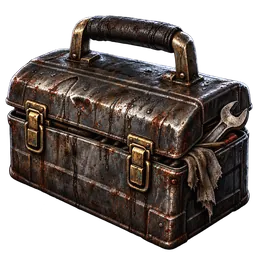
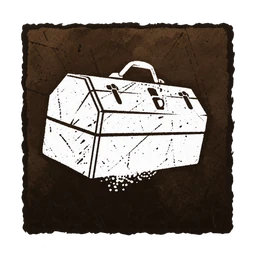
dbd: redraw item symbols card backs dice and markers

diff --git a/scripts/verify-dbd-art-sizes.py b/scripts/verify-dbd-art-sizes.py
@@ -91,7 +91,8 @@ print(f"DBD_ART_SIZES_PASS hall=2 sizes=1200x900,1600x900 WebP total={hall_total
 
 tokens = (
     "generator", "hook", "crow", "pallet", "locker", "chest",
-    "hex_totem", "exit_gate", "wall", "madness",
+    "hex_totem", "exit_gate", "wall", "madness", "bear_trap", "phantasm",
+    "entity", "brand_lantern", "bloodpoint", "generator_progress",
 )
 token_total = 0
 for name in tokens:
@@ -103,4 +104,42 @@ for name in tokens:
         assert image.mode == "RGBA" and image.getchannel("A").getextrema()[0] == 0
     assert asset.stat().st_size < 300_000, f"over 300 KB: {asset}"
     token_total += asset.stat().st_size
-print(f"DBD_ART_SIZES_PASS tokens=10 size=256x256 transparent WebP total={token_total}B over_300KB=0 comparisons=10")
+print(f"DBD_ART_SIZES_PASS tokens=16 size=256x256 transparent WebP total={token_total}B over_300KB=0 comparisons=16")
+
+items = (
+    "flashlight", "toolbox", "first_aid_kit", "commodious_toolbox", "map",
+    "rainbow_map", "dull_key", "skeleton_key", "broken_key", "firecracker",
+)
+item_dir = ROOT / "apps/web/public/assets/items"
+item_total = 0
+for name in items:
+    asset = item_dir / f"{name}.webp"
+    evidence = EVIDENCE / f"{name}-item-compare.png"
+    assert asset.is_file() and evidence.is_file(), f"missing item: {name}"
+    with Image.open(asset) as image:
+        assert image.format == "WEBP" and image.size == (256, 256), f"wrong item: {asset}"
+        assert image.mode == "RGBA" and image.getchannel("A").getextrema()[0] == 0
+    assert asset.stat().st_size < 300_000, f"over 300 KB: {asset}"
+    item_total += asset.stat().st_size
+print(f"DBD_ART_SIZES_PASS items=10 size=256x256 transparent WebP total={item_total}B over_300KB=0 comparisons=10")
+
+card_dir = ROOT / "apps/web/public/assets/cards"
+for name in ("movement", "killer", "item", "survivor"):
+    asset = card_dir / f"{name}_back.webp"
+    evidence = EVIDENCE / f"{name}-card-back-compare.png"
+    assert asset.is_file() and evidence.is_file(), f"missing card back: {name}"
+    with Image.open(asset) as image:
+        assert image.format == "WEBP" and image.size == (256, 337), f"wrong card back: {asset}"
+    assert asset.stat().st_size < 300_000
+print("DBD_ART_SIZES_PASS card_backs=4 size=256x337 WebP over_300KB=0 comparisons=4")
+
+dice_dir = ROOT / "apps/web/public/assets/dice"
+for kind in ("skill", "danger"):
+    for index in range(1, 7):
+        asset = dice_dir / f"{kind}_{index}.webp"
+        evidence = EVIDENCE / f"{kind}-{index}-die-compare.png"
+        assert asset.is_file() and evidence.is_file(), f"missing die face: {kind}_{index}"
+        with Image.open(asset) as image:
+            assert image.format == "WEBP" and image.size == (128, 128), f"wrong die face: {asset}"
+        assert asset.stat().st_size < 300_000
+print("DBD_ART_SIZES_PASS dice_faces=12 size=128x128 WebP over_300KB=0 comparisons=12")

diff --git a/docs/dbd/2026-11-23-art-and-maps/ART_MANIFEST.md b/docs/dbd/2026-11-23-art-and-maps/ART_MANIFEST.md
@@ -113,3 +113,51 @@
 | exit_gate | [图](../../../apps/web/public/assets/mobile/exit_gate.webp) | 14288 | [原图](https://drive.google.com/file/d/1Og_ZptTQ7gZr9KvvYCrLJn_cb8F8q3x3/view?usp=drivesdk) | [并排图](comparisons/exit_gate-token-compare.png) |
 | wall | [图](../../../apps/web/public/assets/mobile/wall.webp) | 16694 | [原图](https://drive.google.com/file/d/1tlWvyi4z82Wb0CNL9hh0FqGvmwXEGtIN/view?usp=drivesdk) | [并排图](comparisons/wall-token-compare.png) |
 | madness | [图](../../../apps/web/public/assets/mobile/madness.webp) | 18330 | [原图](https://drive.google.com/file/d/18jGWf9wRDL6kvGvMxIFIMqtzb7wJh5JK/view?usp=drivesdk) | [并排图](comparisons/madness-token-compare.png) |
+| bear_trap | [图](../../../apps/web/public/assets/mobile/bear_trap.webp) | 22004 | [原图](https://drive.google.com/file/d/1vRTijX58M27ZmYk1vw5nelCGBHUo3CGe/view?usp=drivesdk) | [并排图](comparisons/bear_trap-token-compare.png) |
+| phantasm | [图](../../../apps/web/public/assets/mobile/phantasm.webp) | 23212 | [原图](https://drive.google.com/file/d/1RAO7eqQqjC-eHgAq1RMOXDVNGFV4iFNC/view?usp=drivesdk) | [并排图](comparisons/phantasm-token-compare.png) |
+| entity | [图](../../../apps/web/public/assets/mobile/entity.webp) | 9668 | [原图](https://drive.google.com/file/d/13zQqWV4yFgqMpwxoHV9nuxxI-0mjC6bl/view?usp=drivesdk) | [并排图](comparisons/entity-token-compare.png) |
+| brand_lantern | [图](../../../apps/web/public/assets/mobile/brand_lantern.webp) | 10488 | [原图](https://drive.google.com/file/d/1SSkuES_GtdbWMJAwoqLVW5F0DhcarXVH/view?usp=drivesdk) | [并排图](comparisons/brand_lantern-token-compare.png) |
+| bloodpoint | [图](../../../apps/web/public/assets/mobile/bloodpoint.webp) | 12670 | [原图](https://drive.google.com/file/d/1sY0jOHoBa0Yi6KOJ3D3oMjXnBT3YLUbZ/view?usp=drivesdk) | [并排图](comparisons/bloodpoint-token-compare.png) |
+| generator_progress | [图](../../../apps/web/public/assets/mobile/generator_progress.webp) | 13812 | [原图](https://drive.google.com/file/d/1oIQHriyB7_yND7XNpaZaCeNMmGZ6TfxE/view?usp=drivesdk) | [并排图](comparisons/generator_progress-token-compare.png) |
+
+
+## 基础物品图案
+
+以下替换了游戏使用的十张物品小图，以物品卡上方的白色印刷图案重新画成透明背景图；整张中文卡面尚未完成。旧图保存在 `assets/items/legacy/`。
+
+| 物品 | 新图（256×256） | 字节 | 官方参考 | 并排图 |
+|---|---|---:|---|---|
+| flashlight | [图](../../../apps/web/public/assets/items/flashlight.webp) | 17126 | [原图](https://drive.google.com/file/d/1wQlI9LMAeosk9DVtYOii4cDIUrconjUg/view?usp=drivesdk) | [并排图](comparisons/flashlight-item-compare.png) |
+| first_aid_kit | [图](../../../apps/web/public/assets/items/first_aid_kit.webp) | 19252 | [原图](https://drive.google.com/file/d/1Hwn_e0Ldm9v8AMKm00_DA3cP_cXW2Z-e/view?usp=drivesdk) | [并排图](comparisons/first_aid_kit-item-compare.png) |
+| toolbox | [图](../../../apps/web/public/assets/items/toolbox.webp) | 18440 | [原图](https://drive.google.com/file/d/1hfQaZPjLklFroJ9tsV9YUEzDAhrWvscf/view?usp=drivesdk) | [并排图](comparisons/toolbox-item-compare.png) |
+| commodious_toolbox | [图](../../../apps/web/public/assets/items/commodious_toolbox.webp) | 19570 | [原图](https://drive.google.com/file/d/1gn_smc9H8z58SZbP3FTusifxoCQQULiN/view?usp=drivesdk) | [并排图](comparisons/commodious_toolbox-item-compare.png) |
+| rainbow_map | [图](../../../apps/web/public/assets/items/rainbow_map.webp) | 18134 | [原图](https://drive.google.com/file/d/1jj5x_0nBk7Y7nyt6s_irbF6cQBvQarDa/view?usp=drivesdk) | [并排图](comparisons/rainbow_map-item-compare.png) |
+| map | [图](../../../apps/web/public/assets/items/map.webp) | 17002 | [原图](https://drive.google.com/file/d/19wVINfwLw03L7iLukIufLx3yqDRGVu-t/view?usp=drivesdk) | [并排图](comparisons/map-item-compare.png) |
+| dull_key | [图](../../../apps/web/public/assets/items/dull_key.webp) | 17584 | [原图](https://drive.google.com/file/d/1jQsu54hA5bNHpM7RLGniADdNUMc0IkRo/view?usp=drivesdk) | [并排图](comparisons/dull_key-item-compare.png) |
+| skeleton_key | [图](../../../apps/web/public/assets/items/skeleton_key.webp) | 16758 | [原图](https://drive.google.com/file/d/1Vu26ImjATvmuaQpvsbOf9pmSL2p5BbHj/view?usp=drivesdk) | [并排图](comparisons/skeleton_key-item-compare.png) |
+| broken_key | [图](../../../apps/web/public/assets/items/broken_key.webp) | 22064 | [原图](https://drive.google.com/file/d/1Tltl89fc9Y0kMxzZCO51fl6PHx_3Smdq/view?usp=drivesdk) | [并排图](comparisons/broken_key-item-compare.png) |
+| firecracker | [图](../../../apps/web/public/assets/items/firecracker.webp) | 22132 | [原图](https://drive.google.com/file/d/16I-T17oMBFW8HLlw9IdGjj2x61CdjgNr/view?usp=drivesdk) | [并排图](comparisons/firecracker-item-compare.png) |
+
+
+## 卡背与骰面
+
+这四种卡背与两种骰子图集已重绘；目前为新增资产，尚未接入游戏卡牌组件。完整中文卡面仍待制作。
+
+| 类别 | 新图 | 字节 | 官方参考 | 并排图 |
+|---|---|---:|---|---|
+| movement 卡背（256×337） | [图](../../../apps/web/public/assets/cards/movement_back.webp) | 20402 | [原图](https://drive.google.com/file/d/1qUmqVw6ZjN84S3ccKFDlxlT1gB1-1J8l/view?usp=drivesdk) | [并排图](comparisons/movement-card-back-compare.png) |
+| killer 卡背（256×337） | [图](../../../apps/web/public/assets/cards/killer_back.webp) | 22412 | [原图](https://drive.google.com/file/d/1ZaVnTfUQZvIaiUMohq8-ILK_FnjRUbnB/view?usp=drivesdk) | [并排图](comparisons/killer-card-back-compare.png) |
+| item 卡背（256×337） | [图](../../../apps/web/public/assets/cards/item_back.webp) | 23508 | [原图](https://drive.google.com/file/d/1GynSUeYlwxLRTzggBJ5NqaHeSCAh22Gd/view?usp=drivesdk) | [并排图](comparisons/item-card-back-compare.png) |
+| survivor 卡背（256×337） | [图](../../../apps/web/public/assets/cards/survivor_back.webp) | 23436 | [原图](https://drive.google.com/file/d/14mBBF6cCcIP3G0Og5ECYeZPmjQfUwqXX/view?usp=drivesdk) | [并排图](comparisons/survivor-card-back-compare.png) |
+| skill 骰面 1（128×128） | [图](../../../apps/web/public/assets/dice/skill_1.webp) | 462 | [原图](https://drive.google.com/file/d/1rf6l7o-WqmlhQICCg6YtMMKM1cphrM9f/view?usp=drivesdk) | [并排图](comparisons/skill-1-die-compare.png) |
+| skill 骰面 2（128×128） | [图](../../../apps/web/public/assets/dice/skill_2.webp) | 1096 | [原图](https://drive.google.com/file/d/1rf6l7o-WqmlhQICCg6YtMMKM1cphrM9f/view?usp=drivesdk) | [并排图](comparisons/skill-2-die-compare.png) |
+| skill 骰面 3（128×128） | [图](../../../apps/web/public/assets/dice/skill_3.webp) | 1414 | [原图](https://drive.google.com/file/d/1rf6l7o-WqmlhQICCg6YtMMKM1cphrM9f/view?usp=drivesdk) | [并排图](comparisons/skill-3-die-compare.png) |
+| skill 骰面 4（128×128） | [图](../../../apps/web/public/assets/dice/skill_4.webp) | 4814 | [原图](https://drive.google.com/file/d/1rf6l7o-WqmlhQICCg6YtMMKM1cphrM9f/view?usp=drivesdk) | [并排图](comparisons/skill-4-die-compare.png) |
+| skill 骰面 5（128×128） | [图](../../../apps/web/public/assets/dice/skill_5.webp) | 744 | [原图](https://drive.google.com/file/d/1rf6l7o-WqmlhQICCg6YtMMKM1cphrM9f/view?usp=drivesdk) | [并排图](comparisons/skill-5-die-compare.png) |
+| skill 骰面 6（128×128） | [图](../../../apps/web/public/assets/dice/skill_6.webp) | 1596 | [原图](https://drive.google.com/file/d/1rf6l7o-WqmlhQICCg6YtMMKM1cphrM9f/view?usp=drivesdk) | [并排图](comparisons/skill-6-die-compare.png) |
+| danger 骰面 1（128×128） | [图](../../../apps/web/public/assets/dice/danger_1.webp) | 2608 | [原图](https://drive.google.com/file/d/1ChAYjojQSkgtmG2mjbKGAcRMOcwUJfdX/view?usp=drivesdk) | [并排图](comparisons/danger-1-die-compare.png) |
+| danger 骰面 2（128×128） | [图](../../../apps/web/public/assets/dice/danger_2.webp) | 3016 | [原图](https://drive.google.com/file/d/1ChAYjojQSkgtmG2mjbKGAcRMOcwUJfdX/view?usp=drivesdk) | [并排图](comparisons/danger-2-die-compare.png) |
+| danger 骰面 3（128×128） | [图](../../../apps/web/public/assets/dice/danger_3.webp) | 2628 | [原图](https://drive.google.com/file/d/1ChAYjojQSkgtmG2mjbKGAcRMOcwUJfdX/view?usp=drivesdk) | [并排图](comparisons/danger-3-die-compare.png) |
+| danger 骰面 4（128×128） | [图](../../../apps/web/public/assets/dice/danger_4.webp) | 3160 | [原图](https://drive.google.com/file/d/1ChAYjojQSkgtmG2mjbKGAcRMOcwUJfdX/view?usp=drivesdk) | [并排图](comparisons/danger-4-die-compare.png) |
+| danger 骰面 5（128×128） | [图](../../../apps/web/public/assets/dice/danger_5.webp) | 3006 | [原图](https://drive.google.com/file/d/1ChAYjojQSkgtmG2mjbKGAcRMOcwUJfdX/view?usp=drivesdk) | [并排图](comparisons/danger-5-die-compare.png) |
+| danger 骰面 6（128×128） | [图](../../../apps/web/public/assets/dice/danger_6.webp) | 3236 | [原图](https://drive.google.com/file/d/1ChAYjojQSkgtmG2mjbKGAcRMOcwUJfdX/view?usp=drivesdk) | [并排图](comparisons/danger-6-die-compare.png) |

diff --git a/docs/dbd/2026-11-23-art-and-maps/INVENTORY.md b/docs/dbd/2026-11-23-art-and-maps/INVENTORY.md
@@ -4,20 +4,20 @@
 
 ## 地图结论
 
-素材有四张完整地图图像：麦克米伦、奥托海文、克洛普瑞恩疯人院（Crotus）、奥蒙德（Ormond）；当前游戏只有前两张。素材还含四张低分辨率地图 JPG。`CrotusRecreated.png` 的画面是疯人院，但顶栏误印 **ORMOND**；对应原始照片 `crotus.jpg` 顶栏印的是 **CROTUS PRENN ASYLUM**。按用户“以图内顶栏为准”的裁定，以原始照片标题识别地图，重制图的标题冲突记为素材瑕疵。路线、道具和出生骰面仍需逐项与原始照片核对。
+素材有四张完整地图图像：麦克米伦、奥托海文，以及两张身份仍待核对的新图；当前游戏只有前两张。素材还含四张低分辨率地图 JPG。`CrotusRecreated.png` 顶栏印 **ORMOND**，`crotus.jpg` 顶栏印 **CROTUS PRENN ASYLUM**。按用户“以图内顶栏为准”的裁定，不能擅自把重制图顶栏判为误印；目前两者冲突，`Crotus` 只作为未开放候选 ID，地图身份 `CHECK_REQUIRED`。路线、道具和出生骰面也仍需逐项核对。
 
 | 地图 | 游戏现状 | 房间标题（按参考图逐一读取） |
 | --- | --- | --- |
 | MacMillan Estate | 已有 | 现有 `MAP_DATA.json` 的 11 个房间，仍需与素材逐项比对 |
 | Autohaven Wreckers | 已有 | 现有 `MAP_DATA.json` 的 10 个房间，仍需与素材逐项比对 |
-| Crotus Prenn Asylum | 未接入 | Shack、Dark Wood、Courtyard、Treatment Hall、Hallway、Carnival Entrance、Greenhouse、Receiving Desk、Ruins、Outer Garden（10 个） |
+| Crotus Prenn Asylum（暂定，身份待核对） | 未接入 | Shack、Dark Wood、Courtyard、Treatment Hall、Hallway、Carnival Entrance、Greenhouse、Receiving Desk、Ruins、Outer Garden（10 个） |
 | Ormond | 未接入 | Picnic Area、Guest Rooms、Balcony、Storage、Chalet、Rentals、Wooded Area、Ski Shack、Basement、Entryway（10 个） |
 
 | 分类 | 文件名 | 对应游戏对象 | 大小（B） | 参考价值／核对状态 | 来源 |
 | --- | --- | --- | ---: | --- | --- |
 | 地图 | crotus.jpg | 克洛普瑞恩疯人院 | 147477 | 只能看大概 | [文件](https://drive.google.com/file/d/1mfAUnbFZoBInUTjdtZxEBA3nIwIjv_EM/view?usp=drivesdk) |
 | 地图 | ormond.jpg | 奥蒙德 | 149208 | 只能看大概 | [文件](https://drive.google.com/file/d/16Vza_XXP0NVjF8xxOaKkYxnH6WUkMsmz/view?usp=drivesdk) |
-| 地图 | CrotusRecreated.png | 克洛普瑞恩疯人院 | 5574362 | 细节清楚；顶栏误写 ORMOND，以原始照片标题校正 | [文件](https://drive.google.com/file/d/1kl1dSZrdxUKaTeCvqT0nZR9yz245mp_A/view?usp=drivesdk) |
+| 地图 | CrotusRecreated.png | 顶栏 ORMOND、身份与文件名冲突 | 5574362 | 细节清楚；地图身份 CHECK_REQUIRED | [文件](https://drive.google.com/file/d/1kl1dSZrdxUKaTeCvqT0nZR9yz245mp_A/view?usp=drivesdk) |
 | 地图 | OrmondRecreated.png | 奥蒙德 | 7115450 | 细节清楚；路线仍需转录 | [文件](https://drive.google.com/file/d/1Cdiu6WEMUfeIYV2KqHyCiyf3qxvdsz4-/view?usp=drivesdk) |
 | 地图 | AutohavenMapRecreated.png | 奥托海文废车场 | 5939369 | 细节清楚；路线仍需转录 | [文件](https://drive.google.com/file/d/1H9yFZHh82ab7gZ2eOCvrMcIVLyManUJO/view?usp=drivesdk) |
 | 地图 | MacMillanRecreated.png | 麦克米伦庄园 | 5988314 | 细节清楚；路线仍需转录 | [文件](https://drive.google.com/file/d/1_eOEs2oUQpZRyWv_AwPpjLLr6QqRkd-b/view?usp=drivesdk) |

diff --git a/docs/dbd/2026-11-23-art-and-maps/progress.md b/docs/dbd/2026-11-23-art-and-maps/progress.md
@@ -3,7 +3,7 @@ Original prompt: 按 `INSTRUCTION.md` 使用用户云端「美术资源」参考
 ## 已完成
 
 - 已找到用户提供的 Google Drive 「美术资源」快捷方式及 MFMike 素材库，目录级盘点 177 个图像，详见 `INVENTORY.md`。
-- 原始 `crotus.jpg` 标为 CROTUS PRENN ASYLUM；`CrotusRecreated.png` 顶栏误写 ORMOND，已记录到问题清单。
+- `crotus.jpg` 顶栏为 CROTUS PRENN ASYLUM，而 `CrotusRecreated.png` 顶栏为 ORMOND。按用户要求以图内顶栏为准，两者身份冲突已标 `CHECK_REQUIRED`，不开放候选地图。
 - 用户认可第二版房间重绘样张；已重绘 Crotus、Ormond 各 10 张房间图，600×400 WebP，20 张并排比较图在 `comparisons/`。
 - 两张地图的 20 个房间名、出生骰面和四色道具格已先入 `MAP_DATA.json` 的 `candidate_maps`；候选地图默认不可选。
 - 尺寸检查脚本 `scripts/verify-dbd-art-sizes.py`：41 张图均通过，合计 2,710,136 B，单张均低于 300 KB。
@@ -11,10 +11,13 @@ Original prompt: 按 `INSTRUCTION.md` 使用用户云端「美术资源」参考
 - 四张地图选图封面已重绘为 768×512 WebP；基础版 13 名角色各有透明头像与全身立牌，人物详情页接入全身图，旧头像已备份。
 - 大厅卡带与横幅已重绘，分别为 1200×900 与 1600×900 WebP；原版大厅图已备份。
 - 已重绘 10 个常见地图道具/标记（发电机、钩子、乌鸦、木板、柜子、箱子、图腾、出口、墙、疯狂），256×256 透明 WebP；旧图已备份。
+- 已按官方物品卡图案重绘 10 种基础物品小图，256×256 透明 WebP，旧图已备份。
+- 四种卡背和两类各六面骰面已重绘为独立 WebP 文件，逐张并排图已归档；尚未接入卡牌和掷骰组件。
+- 追加捕兽夹、幻影、恶灵、先手、血点和发电机进度标记，现有标记累计 16 张。
 
 ## 待完成
 
 - 逐条核对两张新地图所有路线的端点、颜色、箭头、墙、路口；有任何 `CHECK_REQUIRED` 就保持不可选。完成后才做引擎固定种子整局。
-- 重绘剩余道具/标记、卡牌与骰面。扩展角色只列清单。
+- 重绘剩余道具/标记、完整卡牌正面；接入卡背与骰面。扩展角色只列清单。
 - 核查人物板/卡牌所有英文内容与当前游戏已接入中文版本；用户允许用当前版或自行翻译，但不声称等同中文版实物印刷。
 - 手机视口全流程截图、完整浏览器验证、最终报告及提交。原始参考只在 `reference/`，不直接放进游戏。

diff --git a/docs/RULE_QUESTIONS.md b/docs/RULE_QUESTIONS.md
@@ -62,5 +62,5 @@
 
 | ID | 状态 | 核对事项 | 处理边界 |
 | --- | --- | --- | --- |
-| DBD-MAP-01 | CHECK_REQUIRED | `CrotusRecreated.png` 顶栏误写 ORMOND；对应原始照片 `crotus.jpg` 顶栏为 CROTUS PRENN ASYLUM。用户要求以图内顶栏为准，地图身份采用原始照片标题。 | 不以重制图的错误标题命名地图；逐条路线仍须与原始照片核对。 |
+| DBD-MAP-01 | CHECK_REQUIRED | `CrotusRecreated.png` 顶栏印 ORMOND，`crotus.jpg` 顶栏印 CROTUS PRENN ASYLUM，图内内容相近。用户要求以图内顶栏为准，因此不能把前者的顶栏擅自判为误印，也不能据文件名断言其身份。 | `crotus_prenn_asylum` 只是未开放的候选数据 ID，地图身份继续标 CHECK_REQUIRED；待找到一致的地图板依据前不开放。 |
 | DBD-MAP-02 | CHECK_REQUIRED | Crotus 与 Ormond 的路线端点、颜色、箭头、开局墙和多房间路口尚未完成逐项转录；原始宣传照片分辨率较低。 | 两张地图只存入 `candidate_maps`，`runtime_enabled: false`，不开放建房选择，不进行虚假的整局验收。 |
